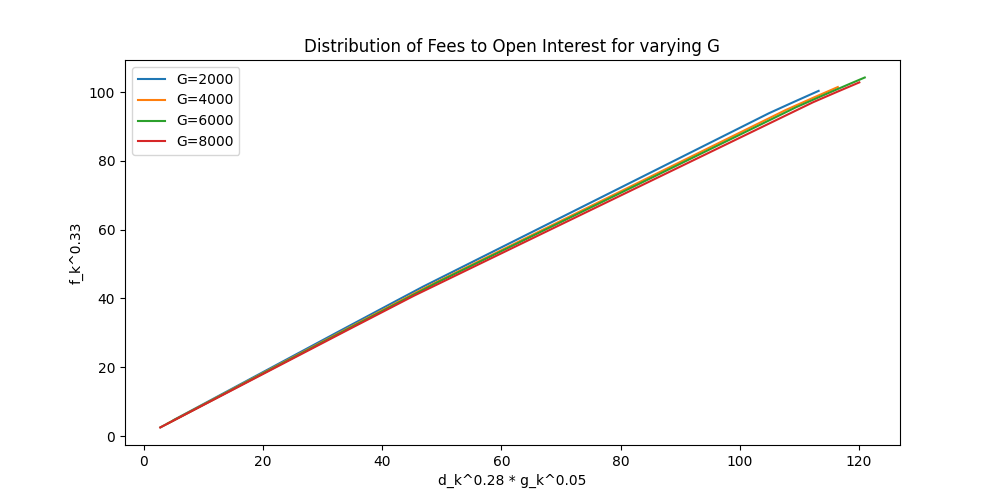
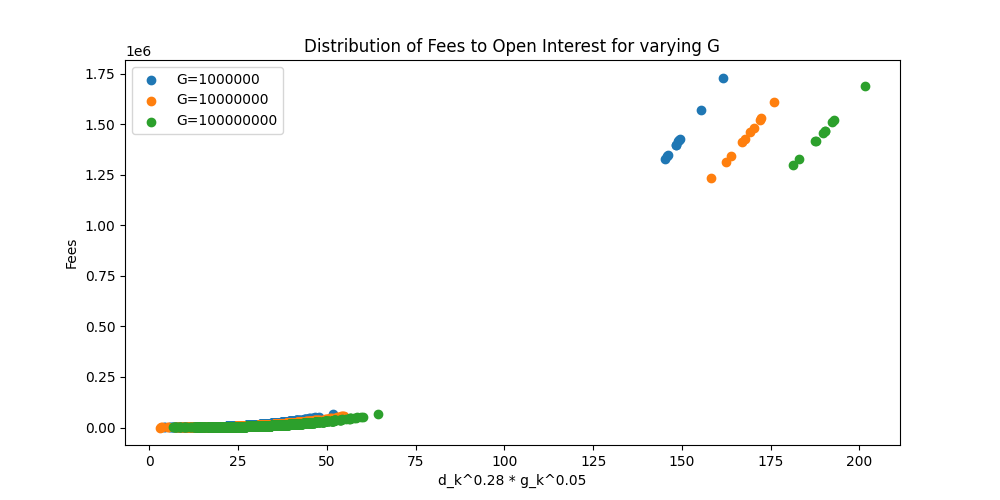
Modified some plots

diff --git a/trading_mechanisms/analysis.py b/trading_mechanisms/analysis.py
@@ -128,7 +128,7 @@ def plot5(R, p, alpha, open_interest):
 
     axs[0].scatter(*zip(*results))
     axs[0].set_xlabel("Open Interest")
-    axs[0].set_ylabel("Non-Whale Profit")
+    axs[0].set_ylabel("Non-Whale Profit / Fees")
     axs[0].set_title("Profit vs Open Interest without Whales")
 
     # With whales
@@ -140,7 +140,7 @@ def plot5(R, p, alpha, open_interest):
     results = sorted(list(zip(d_mkt, profits / f_mkt)), key=lambda x : x[1])
 
     axs[1].scatter(*zip(*results), color='red')
-    axs[1].set_ylabel("Whale Profit")
+    axs[1].set_ylabel("Whale Profit / Fees")
     axs[1].set_xlabel("Open Interest")
     axs[1].set_title("Profit vs Open Interest with Whales")
     
@@ -150,14 +150,14 @@ def plot5(R, p, alpha, open_interest):
 def plot6(R, p, alpha, open_interest):
     fig, axs = plt.subplots(1,1,figsize=(10,5))
 
-    for G in [2000, 4000, 6000, 8000]:
+    for G in [1_000_000, 10_000_000, 100_000_000]:
         d_mkt, f_mkt, g_mkt = find_equilibrium_stk(open_interest, G=G, n=1000, R=R, p=p, alpha=alpha, num_whales=10, whale_alpha=100)
-        results = sorted(list(zip(d_mkt**0.28 * g_mkt**0.05, f_mkt**0.33)), key=lambda x : x[1])
-        axs.plot(*zip(*results), label=f"G={G}")
+        results = sorted(list(zip(d_mkt**0.28 * g_mkt**0.05, f_mkt)), key=lambda x : x[1])
+        axs.scatter(*zip(*results), label=f"G={G}")
     
     axs.legend()
     axs.set_xlabel("d_k^0.28 * g_k^0.05")
-    axs.set_ylabel("f_k^0.33")
+    axs.set_ylabel("Fees")
     axs.set_title("Distribution of Fees to Open Interest for varying G")
 
     fig.savefig(PATH + "plot6.png")

diff --git a/trading_mechanisms/utils.py b/trading_mechanisms/utils.py
@@ -96,14 +96,11 @@ def get_mkt(total, n, num_whales, whale_alpha, fill=False):
 
     return mkt
 
-def find_equilibrium(D, n=1000, R=3_835_616, p=20, alpha=.01, num_whales=0, whale_alpha=1):
+def find_equilibrium(D, n=1000, R=3_835_616, p=10, alpha=.01, num_whales=0, whale_alpha=1):
     """
     Warning: If leaning rate is too small or fees vector is initialized at very high amounts, 
     Newton's method can update fees as negative values. This will crash the algorithm. 
     To avoid this, lower the learning rate or instantiate the fees vector at smaller amounts.
-
-    Parameters:
-
     """
     profit_prime_fast, profit_prime_prime_fast = setup(R, p)
 
@@ -121,7 +118,7 @@ def find_equilibrium(D, n=1000, R=3_835_616, p=20, alpha=.01, num_whales=0, whal
     check_equilibrium(d_mkt, f_mkt, profit_prime_fast)
     return d_mkt, f_mkt
 
-def find_equilibrium_stk(D, n=1000, R=3_835_616, p=20, alpha=.01, G=5_000, num_whales=0, whale_alpha=1):
+def find_equilibrium_stk(D, n=1000, R=3_835_616, p=10, alpha=.01, G=5_000, num_whales=0, whale_alpha=1):
     profit_prime_fast, profit_prime_prime_fast = setup_stk(R, p)
 
     # d_mkt = np.random.exponential(scale=(D/n), size=n)
